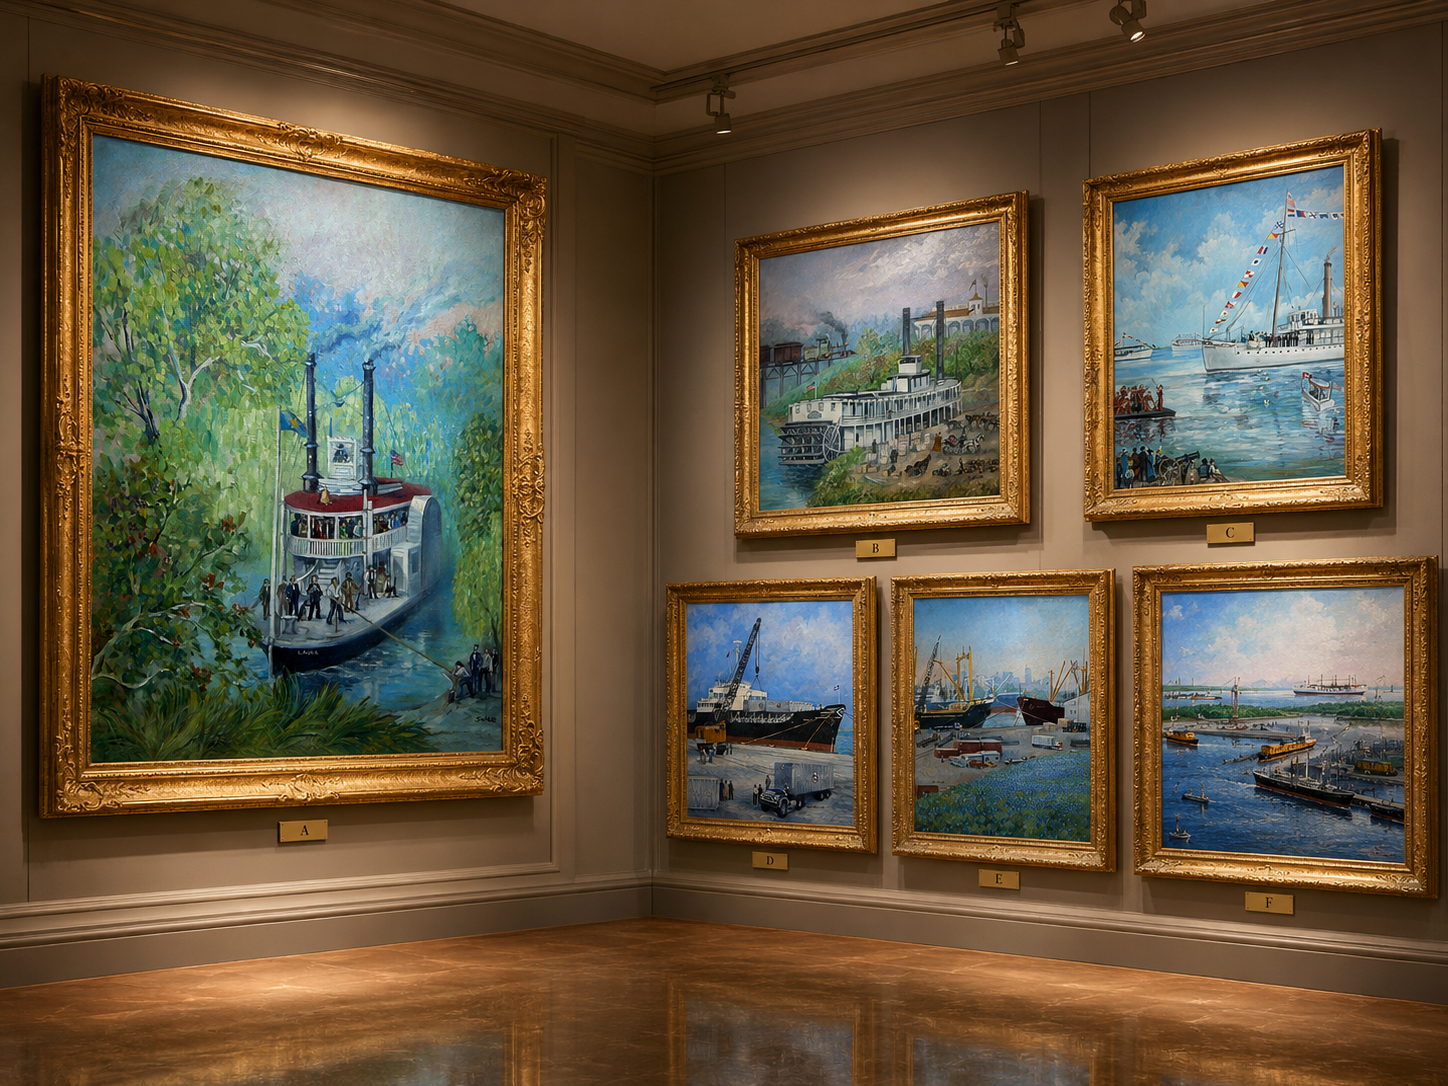
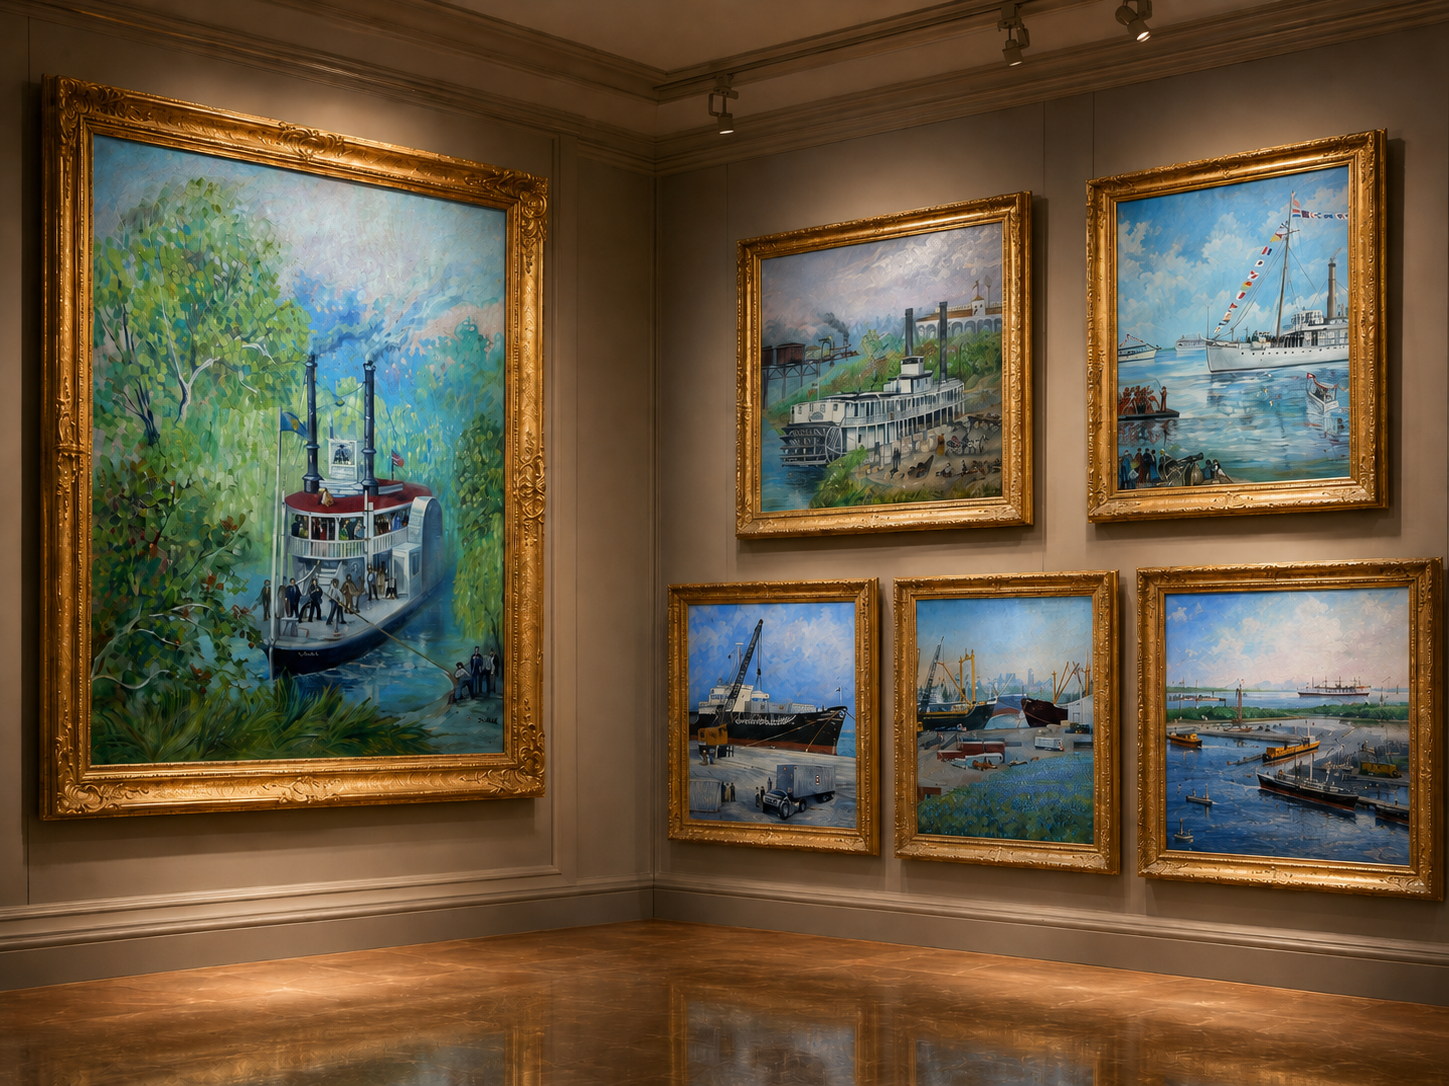
art_homepage

diff --git a/src/data/artSlides.ts b/src/data/artSlides.ts
@@ -1,0 +1,67 @@
+export interface ArtSlide {
+  collection: string;
+  title: string;
+  link: string;
+  landscape: string;
+  portrait: string;
+  menuColor: 'black' | 'white';
+  sideColor?: string;
+  shadowColor?: string;
+}
+
+export const artSlides: ArtSlide[] = [
+  {
+    collection: "abstract_expressionism",
+    title: "Abstract Expressionism",
+    link: "/art/abstract-expressionism/",
+    landscape: "images/art/art_abstract_expressionism_landscape.png",
+    portrait: "images/art/art_abstract_expressionism_portrait.png",
+    menuColor: "white",
+    shadowColor: "rgba(0,0,0,0.75)"
+  },
+  {
+    collection: "bicentennial",
+    title: "Bicentennial Project",
+    link: "/art/bicentennial-project/",
+    landscape: "images/art/art_bicentennial_landscape.png",
+    portrait: "images/art/art_bicentennial_portrait.png",
+    menuColor: "white",
+    shadowColor: "rgba(0,0,0,0.75)"
+  },
+  {
+    collection: "houston",
+    title: "Houston",
+    link: "/art/houston/",
+    landscape: "images/art/art_houston_landscape.png",
+    portrait: "images/art/art_houston_portrait.png",
+    menuColor: "white",
+    shadowColor: "rgba(0,0,0,0.75)"
+  },
+  {
+    collection: "landscapes",
+    title: "Landscapes",
+    link: "/art/landscapes/",
+    landscape: "images/art/art_landscapes_landscape.png",
+    portrait: "images/art/art_landscapes_portrait.png",
+    menuColor: "white",
+    shadowColor: "rgba(0,0,0,0.75)"
+  },
+  {
+    collection: "patriotic",
+    title: "Patriotic",
+    link: "/art/patriotic/",
+    landscape: "images/art/art_patriotic_landscape.png",
+    portrait: "images/art/art_patriotic_portrait.png",
+    menuColor: "white",
+    shadowColor: "rgba(0,0,0,0.75)"
+  },
+  {
+    collection: "seascapes",
+    title: "Seascapes",
+    link: "/art/seascapes/",
+    landscape: "images/art/art_seascapes_landscape.png",
+    portrait: "images/art/art_seascapes_portrait.png",
+    menuColor: "white",
+    shadowColor: "rgba(0,0,0,0.75)"
+  }
+];

diff --git a/src/styles/global.css b/src/styles/global.css
@@ -314,8 +314,67 @@ a {
 }
 
 
+/* ----- Art slideshow: landscape/portrait background swap ----- */
+.art-slide {
+  background-image: var(--bg-landscape);
+  background-size: auto 100%;
+  background-position: center center;
+  background-repeat: no-repeat;
+}
+
+/* Below 1000px, fill-and-crop (like default cover slides) */
+@media (max-width: 999px) {
+  .art-slide {
+    background-size: cover;
+    background-position: center top;
+  }
+}
+
+/* On mobile, use the portrait version of each image */
+@media (max-width: 768px) {
+  .art-slide {
+    background-image: var(--bg-portrait);
+  }
+}
+
+/* ----- Breadcrumbs overlay on the art slideshow (bottom-left) ----- */
+.slide-breadcrumbs {
+  position: absolute;
+  bottom: 40px;
+  left: 32px;
+  z-index: 40;
+  pointer-events: auto;
+}
+
+.slide-breadcrumbs .breadcrumbs {
+  margin-bottom: 0;
+}
+
+/* Breadcrumb color follows the per-slide menu color */
+.page-home.menu-white .slide-breadcrumbs .breadcrumbs,
+.page-home.menu-white .slide-breadcrumbs .breadcrumbs a,
+.page-home.menu-white .slide-breadcrumbs .breadcrumbs span {
+  color: white;
+}
+
+.page-home.menu-black .slide-breadcrumbs .breadcrumbs,
+.page-home.menu-black .slide-breadcrumbs .breadcrumbs a,
+.page-home.menu-black .slide-breadcrumbs .breadcrumbs span {
+  color: black;
+}
+
+@media (max-width: 800px) {
+  .slide-breadcrumbs {
+    left: calc(400px - 50vw); /* counteract the slideshow centering shift */
+    width: 100vw;
+    bottom: 16px;
+    padding: 0 20px;
+  }
+}
+
 /* ----- Prev / Next arrows ----- */
 .slide-arrow {
+
   position: absolute;
   top: 50%;
   transform: translateY(-50%);